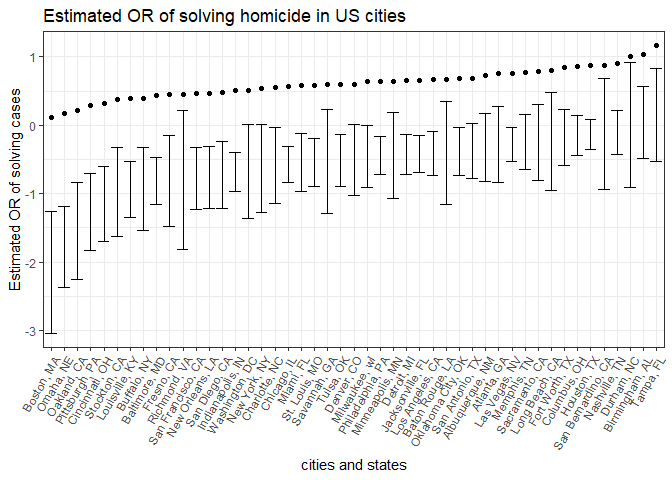
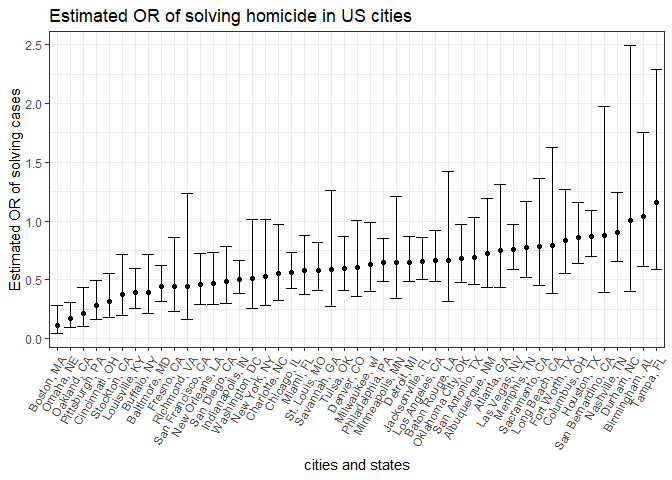
Add plot labels and fix a bug in confidence interval

diff --git a/p8105_hw6_yl3181.md b/p8105_hw6_yl3181.md
@@ -43,7 +43,8 @@ homi = read_csv("homicide-data.csv") %>%
          victim_age = as.numeric(victim_age),
          victim_sex = replace(victim_sex, victim_sex == "Unknown", ""),
          victim_race = replace(victim_race, victim_race == "Unknown", ""),
-         bin_race = ifelse(victim_race == "White", "white", ifelse(victim_race == "", "","nonWhite"))) %>% 
+         bin_race = ifelse(victim_race == "White", "white", ifelse(victim_race == "", "","nonwhite")),
+         bin_race = relevel(factor(bin_race), "white")) %>% 
   filter(!(city_state %in% c("Dallas, TX", "Phoenix, AZ", "Kansas City, MO", "Tulsa, AL"))) 
 ```
 
@@ -75,15 +76,15 @@ sol_fit_Bal %>%
   broom::tidy() %>% 
   cbind(exp(confint(sol_fit_Bal))) %>% 
   mutate(OR = exp(estimate)) %>% 
-  filter(term == "bin_racewhite") %>% 
+  filter(term == "bin_racenonwhite") %>% 
   knitr::kable()
 ```
 
     ## Waiting for profiling to be done...
 
-| term           |   estimate|  std.error|  statistic|  p.value|     2.5 %|   97.5 %|        OR|
-|:---------------|----------:|----------:|----------:|--------:|---------:|--------:|---------:|
-| bin\_racewhite |  0.8195997|  0.1746156|   4.693738|  2.7e-06|  1.613764|  3.20346|  2.269591|
+| term              |    estimate|  std.error|  statistic|  p.value|      2.5 %|     97.5 %|        OR|
+|:------------------|-----------:|----------:|----------:|--------:|----------:|----------:|---------:|
+| bin\_racenonwhite |  -0.8195997|  0.1746156|  -4.693738|  2.7e-06|  0.3121625|  0.6196693|  0.440608|
 
 ``` r
 # Build logistic regression for every cities, generate adjusted ORs and CIs.
@@ -94,7 +95,7 @@ sol_fit = homi %>%
   mutate(model = purrr::map(.x = data, .f = ~broom::tidy(glm(bin_sol ~ ., data = .x, family = binomial())))) %>% 
   .[,-2] %>% 
   unnest() %>% 
-  filter(term == "bin_racewhite") %>% 
+  filter(term == "bin_racenonwhite") %>% 
   mutate(OR = exp(estimate),
          lwconf = estimate - std.error * 1.96,
          upconf = estimate + std.error * 1.96)
